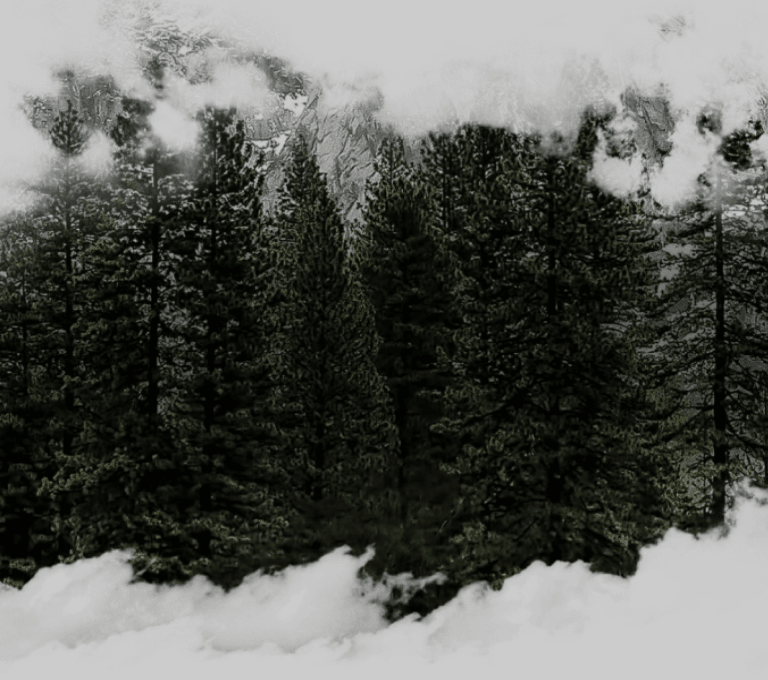
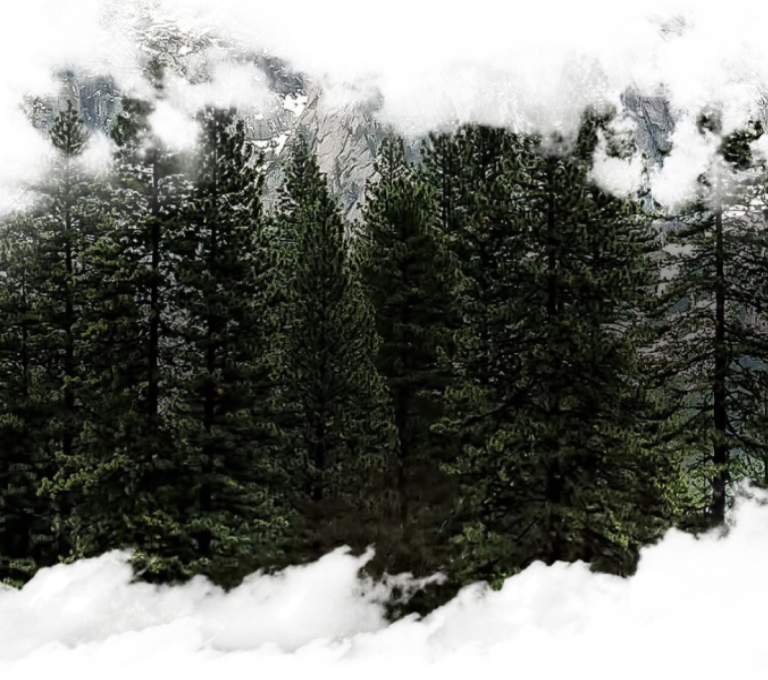
Добавляет фон

diff --git a/source/sass/block/tours.scss b/source/sass/block/tours.scss
@@ -1,7 +1,31 @@
 .tours {
   color: var(--font-base);
-  background-color: var(--background-base);
   padding: 20px 0;
+  position: relative;
+}
+
+.tours::after {
+  position: absolute;
+  content: "";
+  width: 141px;
+  height: 615px;
+  top: 0;
+  right: 0;
+  background-image: url("/img/tours-mobile@x1.png");
+  background-size: cover;
+  z-index: 0;
+}
+
+@media (min-resolution: 2dppx), (min-resolution: 192dpi) {
+  .tours::after {
+    position: absolute;
+    content: "";
+    width: 141px;
+    height: 615px;
+    top: 0;
+    right: 0;
+    background-image: url("/img/tours-mobile@x2.png");
+  }
 }
 
 .tours__title {
@@ -224,6 +248,8 @@
   gap: 10.5px;
   letter-spacing: 0.04em;
   @include buttons-big;
+  position: relative;
+  z-index: 1;
 
   svg {
     width: 12px;
@@ -243,6 +269,30 @@
 @media screen and (width >= 768px) {
   .tours {
     padding: 40px 0;
+  }
+
+  .tours::after {
+    position: absolute;
+    content: "";
+    width: 425px;
+    height: 1538px;
+    top: 0;
+    right: 0;
+    background-image: url("/img/tours-tablet@x1.png");
+    background-size: cover;
+    z-index: 0;
+  }
+
+  @media (min-resolution: 2dppx), (min-resolution: 192dpi) {
+    .tours::after {
+      position: absolute;
+      content: "";
+      width: 425px;
+      height: 1538px;
+      top: 0;
+      right: 0;
+      background-image: url("/img/tours-tablet@x2.png");
+    }
   }
 
   .tours__container {
@@ -379,6 +429,7 @@
     gap: 4px;
     top: 20px;
     right: 0;
+    z-index: 1;
   }
 
   .tours__button-prev,
@@ -398,6 +449,30 @@
 @media screen and (width >= 1440px) {
   .tours {
     padding: 100px 0;
+  }
+
+  .tours::after {
+    position: absolute;
+    content: "";
+    width: 602px;
+    height: 1504px;
+    top: 0;
+    right: 0;
+    background-image: url("/img/tours-desktop@x1.png");
+    background-size: cover;
+    z-index: 0;
+  }
+
+  @media (min-resolution: 2dppx), (min-resolution: 192dpi) {
+    .tours::after {
+      position: absolute;
+      content: "";
+      width: 602px;
+      height: 1504px;
+      top: 0;
+      right: 0;
+      background-image: url("/img/tours-desktop@x1.png");
+    }
   }
 
   .tours__title {

diff --git a/source/sass/block/training.scss b/source/sass/block/training.scss
@@ -1,6 +1,5 @@
 .training {
   padding: 20px 0;
-  background-color: var(--background-base);
   color: var(--font-base);
 }
 
@@ -37,6 +36,7 @@
   width: 290px;
   min-height: 356px;
   border: 1px solid var(--border-opacity);
+  background-color: var(--background-base);
   padding: 14px;
 }
 
@@ -46,7 +46,6 @@
 
 .training__swiper img {
   object-fit: cover;
-  // height: 200px;
   overflow-x: hidden;
 }
 
@@ -152,6 +151,32 @@
 @media screen and (width >= 768px) {
   .training {
     padding: 40px 0 42px;
+    position: relative;
+    z-index: 2;
+  }
+
+  .training::before {
+    position: absolute;
+    content: "";
+    width: 318px;
+    height: 280px;
+    bottom: 158px;
+    right: 0;
+    background-image: url("/img/training-tablet@x1.png");
+    background-size: cover;
+    z-index: 1;
+  }
+  @media (min-resolution: 2dppx), (min-resolution: 192dpi) {
+    .training::before {
+      position: absolute;
+      content: "";
+      width: 318px;
+      height: 280px;
+      bottom: 158px;
+      right: 0;
+      background-image: url("/img/training-tablet@x2.png");
+      background-size: cover;
+    }
   }
 
   .training__title h3 {
@@ -222,6 +247,7 @@
     column-gap: 146px;
     flex-direction: row;
     flex-wrap: wrap;
+    z-index: 2;
   }
 
   .training__process-item {
@@ -273,6 +299,30 @@
     padding: 40px 0 34px;
   }
 
+  .training::before {
+    position: absolute;
+    content: "";
+    width: 633px;
+    height: 276px;
+    bottom: 0;
+    right: 0;
+    background-image: url("/img/training-desktop@x1.png");
+    background-size: cover;
+    z-index: 1;
+  }
+
+  @media (min-resolution: 2dppx), (min-resolution: 192dpi) {
+    .training::before {
+      position: absolute;
+      content: "";
+      width: 633px;
+      height: 276px;
+      bottom: 0;
+      right: 0;
+      background-image: url("/img/training-desktop@x2.png");
+      background-size: cover;
+    }
+  }
   .training__title h3 {
     padding: 20px 0 12px;
     line-height: 41px;

diff --git a/source/sass/block/adv.scss b/source/sass/block/adv.scss
@@ -70,6 +70,7 @@
   min-height: 239px;
   padding: 19px 9px;
   border: 1px solid var(--border-opacity);
+  background-color: var(--background-base);
 }
 
 .adv__swiper .slide__container {
@@ -115,15 +116,39 @@
 
 @media screen and (width >= 768px) {
   .adv {
+    position: relative;
     padding: 40px 0;
     width: 768px;
   }
 
+  .adv::after {
+    position: absolute;
+    content: "";
+    width: 768px;
+    height: 996px;
+    top: 166px;
+    right: 0;
+    background-image: url("/img/adv-tablet@x1.png");
+    background-size: cover;
+    z-index: 0;
+  }
+
+  @media (min-resolution: 2dppx), (min-resolution: 192dpi) {
+    .adv::after {
+      position: absolute;
+      content: "";
+      width: 768px;
+      height: 996px;
+      top: 0;
+      right: 0;
+      background-image: url("/img/adv-tablet@x2.png");
+      background-size: cover;
+      z-index: 0;
+    }
+  }
+
   .adv__title h3 {
-    margin: 21.6px 10px;
-    font-size: 24px;
-    letter-spacing: 0.03em;
-    line-height: 21.2px;
+    margin: 20px 10px;
   }
 
   .adv__title p {
@@ -137,7 +162,7 @@
 
   .adv__swiper {
     width: 678px;
-    margin-top: 28.6px;
+    margin-top: 30px;
   }
 
   .adv__swiper .swiper-wrapper {
@@ -179,6 +204,32 @@
   .adv {
     padding: 100px 0;
     width: 1440px;
+  }
+
+  .adv::after {
+    position: absolute;
+    content: "";
+    width: 1440px;
+    height: 447px;
+    top: -292px;
+    left: 0;
+    background-image: url("/img/adv-desktop@x1.png");
+    background-size: cover;
+    z-index: 0;
+  }
+
+  @media (min-resolution: 2dppx), (min-resolution: 192dpi) {
+    .adv::after {
+      position: absolute;
+      content: "";
+      width: 1440px;
+      height: 447px;
+      top: -292px;
+      left: 0;
+      background-image: url("/img/adv-desktop@x2.png");
+      background-size: cover;
+      z-index: 0;
+    }
   }
 
   .adv__title h3 {

diff --git a/source/sass/block/hero.scss b/source/sass/block/hero.scss
@@ -275,15 +275,9 @@
     right: 120px;
   }
 
-  // .swiper-pagination-bullet {
-  //   width: 18px;
-  //   height: 18px;
-  // }
-
   .swiper-slide-container {
     width: 780px;
     margin: 0 120px;
-    // color: var(--dark-background);
     text-align: left;
   }
 

diff --git a/source/sass/block/reviews.scss b/source/sass/block/reviews.scss
@@ -27,6 +27,7 @@
   box-sizing: border-box;
   min-height: 484px;
   padding: 20px;
+  background-color: var(--background-base);
 }
 
 .reviews__swiper .slide__container {

diff --git a/source/sass/block/header.scss b/source/sass/block/header.scss
@@ -74,6 +74,7 @@
   .header__content a {
     display: block;
     width: 157px;
-    font-size: 18px;
+    font-size: 17px;
+    font-weight: 400;
   }
 }

diff --git a/source/sass/block/gallery.scss b/source/sass/block/gallery.scss
@@ -194,7 +194,6 @@
       }
     }
 
-    // height: 134.5px;
     picture:last-child {
       width: 100%;
       height: 463px;
